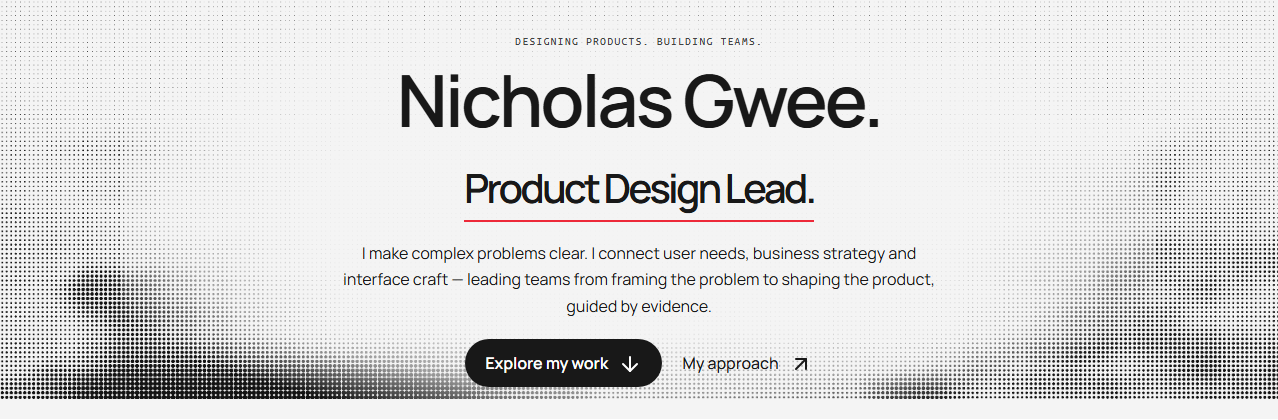
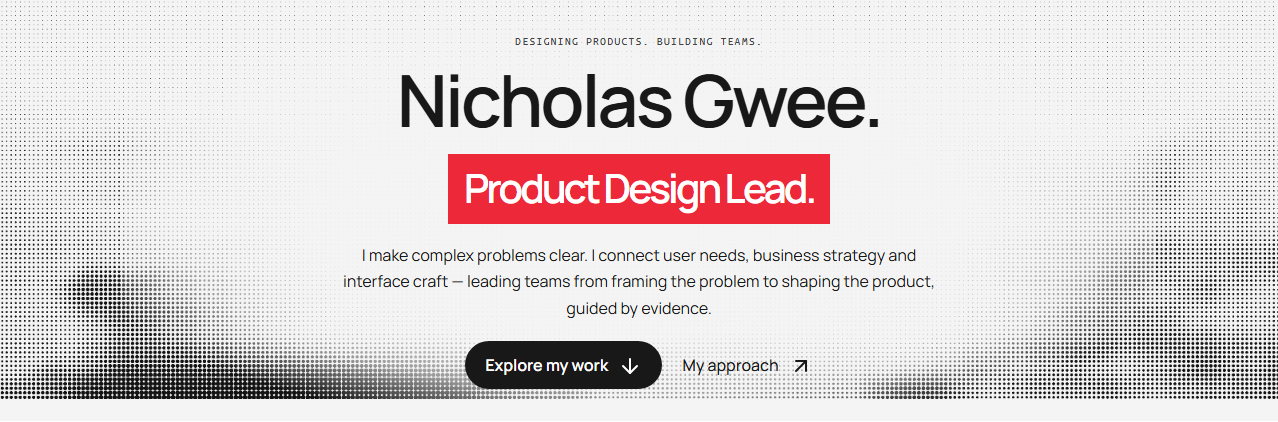
Restore Singapore red role highlight

diff --git a/css/craft-motion.css b/css/craft-motion.css
@@ -20,10 +20,10 @@
   display: inline-block;
   font-size: 0.56em;
   line-height: 1.4;
-  padding: 8px 0 4px;
-  background: transparent;
-  color: var(--ink);
-  border-bottom: 2px solid var(--accent);
+  padding: 6px 16px 8px;
+  background: var(--accent);
+  color: #fff;
+  border-bottom: 0;
 }
 .folio .hero-description {
   max-width: 610px;
@@ -393,7 +393,7 @@
     font-size: clamp(36px, 10vw, 46px);
   }
   .folio .hero-message h1 span {
-    font-size: 0.6em;
+    font-size: max(24px, 0.6em);
   }
   .folio .hero-description {
     font-size: 15px;

diff --git a/README.md b/README.md
@@ -15,7 +15,7 @@ Open http://127.0.0.1:4183/. The server listens only on the local computer. The 
 
 ## Current design
 
-The framed monochrome direction keeps Singapore red as one shared accent. Nicholas Gwee is the dominant identity, with a smaller role, restrained red underline and compact centered opening. The authored Horizon uses three layered cloud forms, organic halftone variation, a clear center behind the copy and a bounded cursor brush. Selected work follows immediately, with Partner Growth Programs first. The original `>` logo, static footer landscape and existing content remain. See `docs/craft-motion.md` for the latest visual and motion pass; earlier direction notes remain historical context.
+The framed monochrome direction keeps Singapore red as one shared accent. Nicholas Gwee is the dominant identity, with a smaller role on a Singapore red highlight and compact centered opening. The authored Horizon uses three layered cloud forms, organic halftone variation, a clear center behind the copy and a bounded cursor brush. Selected work follows immediately, with Partner Growth Programs first. The original `>` logo, static footer landscape and existing content remain. See `docs/craft-motion.md` for the latest visual and motion pass; earlier direction notes remain historical context.
 
 Selected work stays in ordinary page flow with no sticky stage or vertical runway. On fine-pointer screens at least 900px wide, regular wheel input over projects or their visible side margins moves horizontally, releasing to normal page scrolling at either end. Native horizontal gestures, arrows and focused-gallery Left/Right/Home/End remain available. Touch/narrow screens and no JavaScript retain natural scrolling; pause and reduced motion use immediate horizontal paging. Expanded metric context uses ordinary vertical reading. The scrollbar is hidden and resizing preserves selection. See `docs/horizontal-gallery.md`.
 

diff --git a/docs/craft-motion.md b/docs/craft-motion.md
@@ -4,7 +4,7 @@ Approved refinement of the existing monochrome portfolio, against `e2a917d`. The
 
 ## Visual hierarchy
 
-The homepage introduces Nicholas Gwee first, then a smaller role with a red underline. The compact stage brings the first Partner Growth card into a 900px-high desktop viewport. Horizon is the authored default: three cloud layers and smooth organic variation restore detail around the sides and lower half. The center stays pale behind the copy and actions. Responsive static posters use the same grayscale renderer and geometry; the original cloud and other reviewed alternatives remain query options. The desktop cursor brush stays bounded below the quiet copy area. Text remains stationary during pointer interaction.
+The homepage introduces Nicholas Gwee first, then a smaller role on a Singapore red highlight with white text. The role has a 24px minimum on narrow screens to retain large-text contrast. The compact stage brings the first Partner Growth card into a 900px-high desktop viewport. Horizon is the authored default: three cloud layers and smooth organic variation restore detail around the sides and lower half. The center stays pale behind the copy and actions. Responsive static posters use the same grayscale renderer and geometry; the original cloud and other reviewed alternatives remain query options. The desktop cursor brush stays bounded below the quiet copy area. Text remains stationary during pointer interaction.
 
 The homepage and Work page share the same generated previews. Every frame uses the same title, type, charcoal surface, dividers and control treatment. Their content fits its task instead of stretching to a guessed height. The gallery cards retain equal intrinsic heights; switching panels reserves the largest real panel and causes no height change. Source disclosures still grow the whole row naturally when opened.
 

diff --git a/review/final-review.md b/review/final-review.md
@@ -4,7 +4,7 @@ Branch: `codex/portfolio-bold-redesign`, based on main `9cd719f`. Delivery is a 
 
 ## Current visual and motion refinement
 
-The approved five-point pass is documented in `../docs/craft-motion.md`. A compact personal hero emphasizes Nicholas Gwee and a smaller role, replacing the solid accent band with a restrained red underline. Horizon is now the authored default, with broad monochrome halftone contours, responsive static posters and the existing bounded cursor interaction.
+The approved five-point pass is documented in `../docs/craft-motion.md`. A compact personal hero emphasizes Nicholas Gwee and a smaller role. Following review, the role's solid Singapore red highlight is restored, with white text and a 24px minimum on narrow screens. Horizon is now the authored default, with broad monochrome halftone contours, responsive static posters and the existing bounded cursor interaction.
 
 Home and Work reuse three usable demonstrations: program selection, sample discount toggles and deployment tabs. The frames share typography, surfaces and controls while fitting their real content. Cards keep equal intrinsic heights, and switching panels preserves geometry. Full case workflows share brief reveal, indicator and bar feedback. A thin horizontal progress rail follows actual gallery position, and action arrows provide restrained hover/focus feedback. Evidence panels emphasize one main metric and use a single finite linework draw; reported numbers stay stationary.
 
